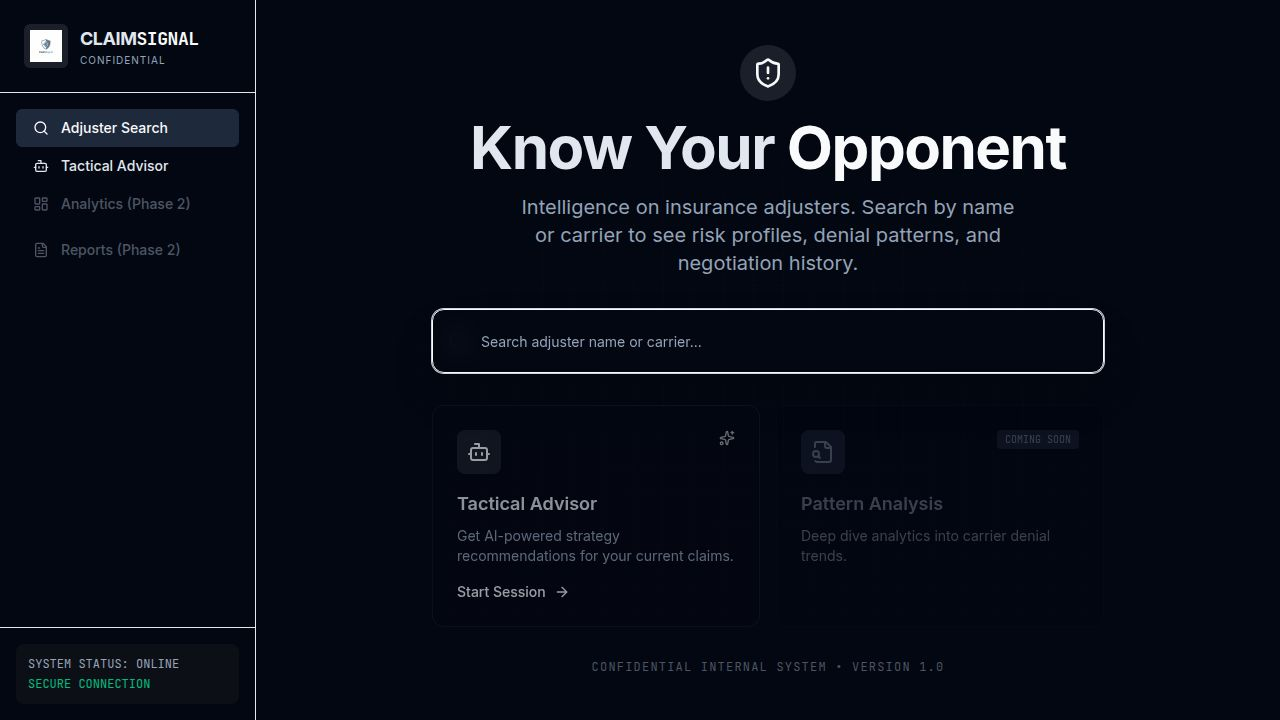
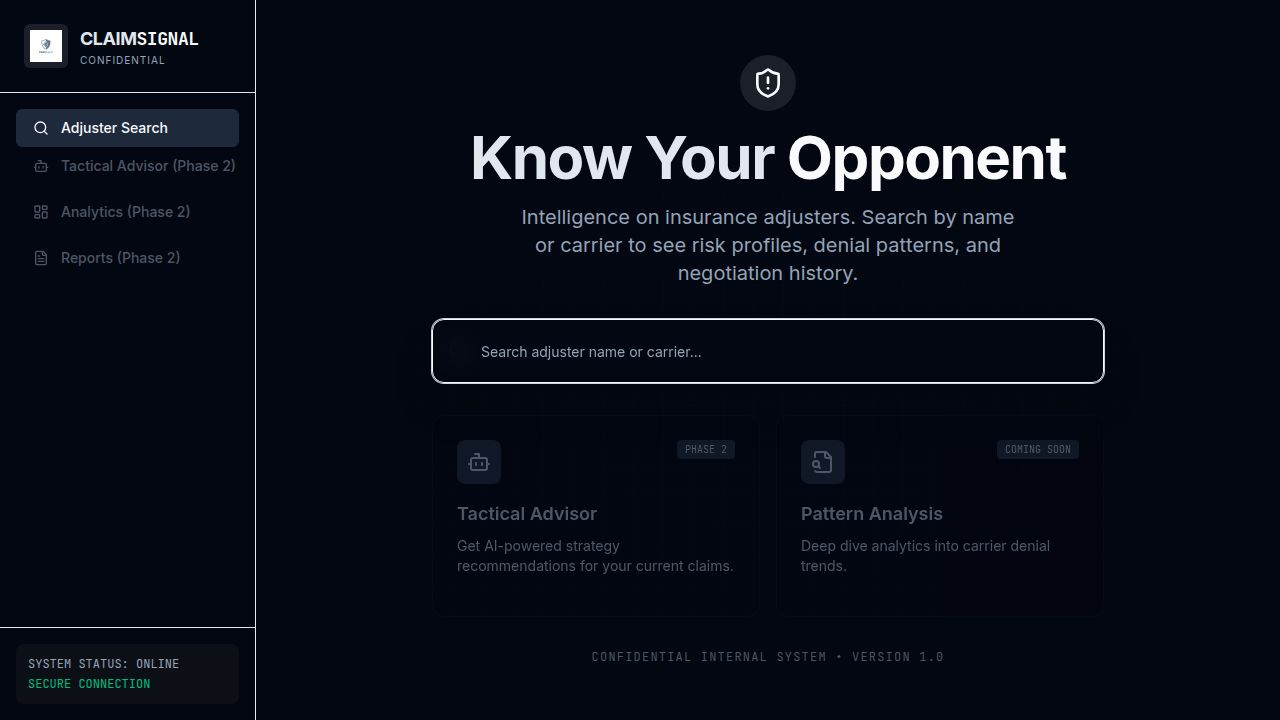
Update navigation and homepage to disable Tactical Advisor
Modify the sidebar component in `client/src/components/layout.tsx` to disable the "Tactical Advisor" link and append "(Phase 2)" to its label. Additionally, update the "Tactical Advisor" card on the homepage (`client/src/pages/home.tsx`) to reflect a disabled state with a "Phase 2" badge, and remove unused imports.

Replit-Commit-Author: Agent
Replit-Commit-Session-Id: 7821935b-4471-437a-8f3c-82ce7a4545b8
Replit-Commit-Checkpoint-Type: full_checkpoint
Replit-Commit-Event-Id: 31b03822-b027-4eef-9afc-f4a35d0a0e5c
Replit-Commit-Screenshot-Url: https://storage.googleapis.com/screenshot-production-us-central1/79fd6955-13be-4b14-acca-dce5b324f59c/7821935b-4471-437a-8f3c-82ce7a4545b8/Y8sq8iN
Replit-Helium-Checkpoint-Created: true

diff --git a/client/src/pages/home.tsx b/client/src/pages/home.tsx
@@ -1,6 +1,6 @@
 import { Layout } from "@/components/layout";
 import { Input } from "@/components/ui/input";
-import { Search, ArrowRight, ShieldAlert, FileSearch, Bot, Sparkles } from "lucide-react";
+import { Search, ArrowRight, ShieldAlert, FileSearch, Bot } from "lucide-react";
 import { useState } from "react";
 import { useLocation } from "wouter";
 import { motion } from "framer-motion";
@@ -135,23 +135,19 @@ export default function Home() {
               className="grid grid-cols-1 md:grid-cols-2 gap-4"
             >
               <div 
-                className="bg-card/50 backdrop-blur-sm border border-border/50 p-6 rounded-xl hover:bg-card/80 transition-all cursor-pointer group"
-                onClick={() => setLocation('/chat')}
+                className="bg-card/30 border border-border/30 p-6 rounded-xl opacity-60"
                 data-testid="button-tactical-advisor"
               >
                 <div className="flex items-start justify-between mb-4">
-                  <div className="bg-primary/10 p-2.5 rounded-lg">
-                    <Bot className="w-6 h-6 text-primary" />
+                  <div className="bg-muted p-2.5 rounded-lg">
+                    <Bot className="w-6 h-6 text-muted-foreground" />
                   </div>
-                  <Sparkles className="w-4 h-4 text-primary animate-pulse" />
+                  <span className="text-[10px] uppercase font-mono bg-muted px-2 py-0.5 rounded text-muted-foreground">Phase 2</span>
                 </div>
-                <h3 className="text-lg font-semibold mb-2 group-hover:text-primary transition-colors">Tactical Advisor</h3>
+                <h3 className="text-lg font-semibold mb-2 text-muted-foreground">Tactical Advisor</h3>
                 <p className="text-sm text-muted-foreground mb-4">
                   Get AI-powered strategy recommendations for your current claims.
                 </p>
-                <div className="flex items-center text-sm text-primary font-medium">
-                  Start Session <ArrowRight className="w-4 h-4 ml-2 group-hover:translate-x-1 transition-transform" />
-                </div>
               </div>
 
               <div className="bg-card/30 border border-border/30 p-6 rounded-xl opacity-60">

diff --git a/client/src/components/layout.tsx b/client/src/components/layout.tsx
@@ -32,12 +32,10 @@ export function Layout({ children }: { children: React.ReactNode }) {
             Adjuster Search
           </Button>
         </Link>
-        <Link href="/chat">
-          <Button variant={location === "/chat" ? "secondary" : "ghost"} className="w-full justify-start gap-3">
-            <Bot className="w-4 h-4" />
-            Tactical Advisor
-          </Button>
-        </Link>
+        <Button variant="ghost" className="w-full justify-start gap-3 text-muted-foreground" disabled>
+          <Bot className="w-4 h-4" />
+          Tactical Advisor (Phase 2)
+        </Button>
         <Button variant="ghost" className="w-full justify-start gap-3 text-muted-foreground" disabled>
           <LayoutDashboard className="w-4 h-4" />
           Analytics (Phase 2)
